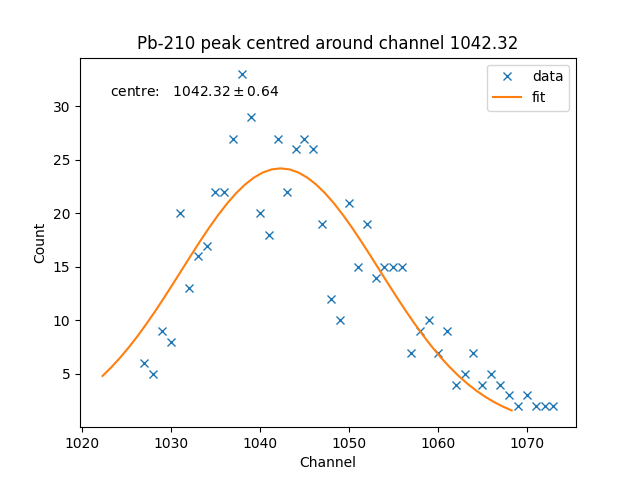
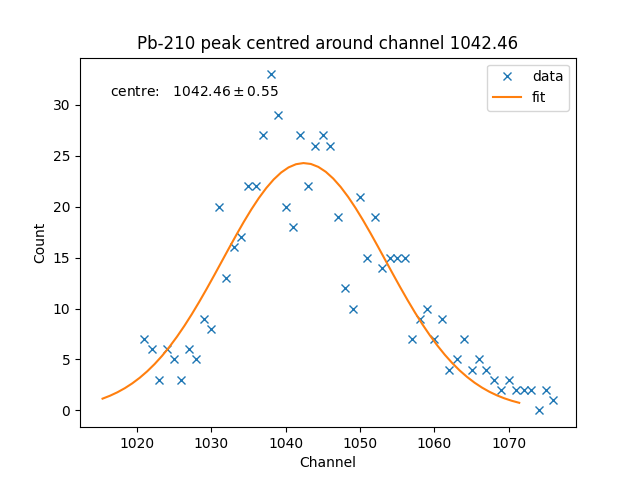
optimize peak data range & guesses for Pb-210 / Cs-137 fits

diff --git a/src/calibration.py b/src/calibration.py
@@ -36,7 +36,7 @@ if "default" in mode:
         SDD_channels,
         pb210_data,
         846,
-        886,
+        886+5,
         [48, 866, 5],
         "Pb-210",
         save_fig=True,
@@ -48,8 +48,8 @@ if "default" in mode:
     pb210_peak2_fit, pb210_peak2_err = calib.fit_peak(
         SDD_channels,
         pb210_data,
-        1003,
-        1025,
+        1003-4,
+        1025+1,
         [12, 1013, 2],
         "Pb-210",
         save_fig=True,
@@ -61,8 +61,8 @@ if "default" in mode:
     pb210_peak3_fit, pb210_peak3_err = calib.fit_peak(
         SDD_channels,
         pb210_data,
-        1027,
-        1074,
+        1027-6,
+        1074+3,
         [23, 1045, 3],
         "Pb-210",
         save_fig=True,
@@ -74,8 +74,8 @@ if "default" in mode:
     pb210_peak4_fit, pb210_peak4_err = calib.fit_peak(
         SDD_channels,
         pb210_data,
-        1229,
-        1263,
+        1229-7,
+        1263+15,
         [4, 1246, 3],
         "Pb-210",
         save_fig=True,
@@ -123,8 +123,8 @@ if "high_rate" in mode:
     cs137_peak1_fit, cs137_peak1_err = calib.fit_peak(
         SDD_channels,
         cs137_data,
-        1251,
-        1300,
+        1251-2,
+        1300+4,
         [43, 1274, 5],
         "Cs-137",
         save_fig=True,
@@ -136,8 +136,8 @@ if "high_rate" in mode:
     cs137_peak2_fit, cs137_peak2_err = calib.fit_peak(
         SDD_channels,
         cs137_data,
-        1429,
-        1454,
+        1429-1,
+        1454+1,
         [9, 1440, 5],
         "Cs-137",
         save_fig=True,

diff --git a/src/metals.py b/src/metals.py
@@ -15,8 +15,8 @@ from xrf import calib
 import calibration
 
 
-# metal = ["au", "cu", "pb", "ag", "ag_HR", "cd", "ni", "se", "ti_HR"]
-metal = ["cu"]
+metal = ["au", "cu", "pb", "ag", "ag_HR", "cd", "ni", "se", "ti_HR"]
+# metal = ["cu"]
 
 
 if __name__ == "__main__":
